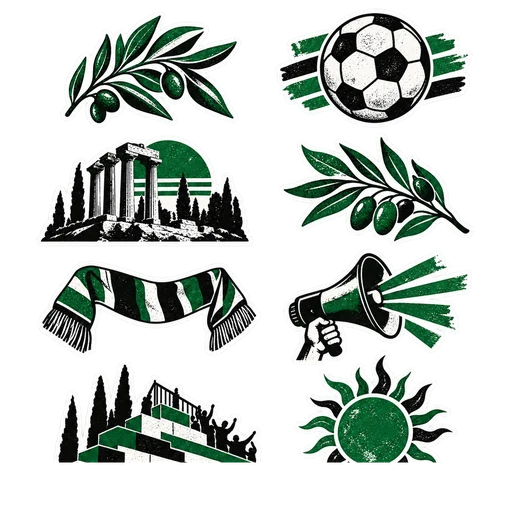
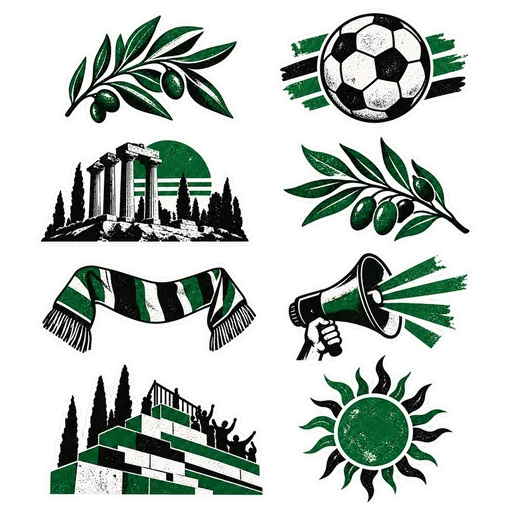
LIFE · TOWN: designer batch P0-02 — enamel shop signs per language, fixed Panathinaikos stickers
- signs/<lang>.webp + rects.js: the designer's enamel plates (he, el, hr, de, en) on the grocery, café, pharmacy and barber fronts, hung out from the facade; the betting-shop plate is left out
- the Panathinaikos sticker sheet re-cut from the complete re-export
- __CK.LANG carries the street's language

Claude-Session: https://claude.ai/code/session_01TpBzbm4JZh7B8pEcedyeRe

Changed region(s): [[0.0938, 0.875, 0.5312, 0.9688], [0.625, 0.875, 0.8438, 0.9688]]

diff --git a/public/life/town/rooms_street.js b/public/life/town/rooms_street.js
@@ -76,6 +76,8 @@ function kit(c){var K={c:c},W=c.world,std=c.std,mesh=c.mesh,rbox=c.rbox,rnd=c.rn
   if(o.pipe)K.box(.14,h,.14,'#4a4a52',o.pipe,h/2,fz+.12,G,{metalness:.5});
   G.userData.fz=fz;G.userData.zf=zf;return G};
  /* shopfront in front of a building face: x centre, width, zf = plane z */
+ /* an enamel shop sign in the street's own language, cut from the designer's sheets (signs/<lang>.webp, rects in signs/rects.js) */
+ var PLT={};K.plate=function(kind,w,x,y,z,par){var L=window.__SIGNS&&(__SIGNS[__CK.LANG]||__SIGNS.en),r=L&&L[kind];if(!r)return null;var key=kind;var m=PLT[key]||(PLT[key]=new T.MeshStandardMaterial({map:K.img('signs/'+(__SIGNS[__CK.LANG]?__CK.LANG:'en')+'.webp',r[2],r[3],{off:[r[0],r[1]]}),transparent:true,alphaTest:.25,roughness:.45,metalness:.25,emissive:'#ffffff',emissiveIntensity:.12,polygonOffset:true,polygonOffsetFactor:-2,polygonOffsetUnits:-2}));var h=w*r[3]/r[2],p=K.plane(w,h,m,x,y,z,par);p.receiveShadow=false;return p};
  K.shop=function(x,w,zf,o){o=o||{};var h=o.h||2.7,G=new T.Group();G.position.set(x,0,zf);W.add(G);
   K.box(w,h+.6,.3,o.frame||'#1a1a22',0,(h+.6)/2,.0,G);
   var gl=new T.MeshStandardMaterial({color:o.glass||'#ffe6cf',emissive:o.glass||'#ffd8b8',emissiveIntensity:o.lit===false?.05:.85,roughness:.1,metalness:.1});
@@ -88,7 +90,8 @@ function kit(c){var K={c:c},W=c.world,std=c.std,mesh=c.mesh,rbox=c.rbox,rnd=c.rn
   else if(o.goods==='produce'){var PC=['#d8501c','#7aa83a','#c42a2a','#e8c8a0','#5a8a3a'];for(var pc=0;pc<4;pc++){var px=gx-gw/2+.45+pc*(gw-.9)/3;K.box(.7,.3,.5,'#8a6a4a',px,.45,.75,G);for(var fq=0;fq<5;fq++)mesh(new T.SphereGeometry(.07,7,6),std(PC[pc%PC.length],{roughness:.6}),px-.24+fq*.12,.65,.75+rr(-.12,.12),G)}o.shelves=true}
   /* shelves silhouette */
   if(o.shelves){for(var s=0;s<3;s++){K.box(gw-.2,.06,.3,'#3a2a2a',gx,.7+s*.7,.3,G);for(var q=0;q<7;q++)K.box(.2,.32,.2,pick(o.shelfCols||[__CK.a,'#f4f1ff','#2a6aff','#ff7a5a','#e0e0ee'],rnd()),gx-gw/2+.4+q*(gw-.8)/6,.9+s*.7,.3,G)}}
-  if(o.sign)K.sign(o.sign,o.signBg||'#14141c',o.signFg||'#ff7a8a',Math.min(w-.2,3.2),.6,0,h+.45,.2,G,{em:'#ffffff',ei:.55});
+  var PR=o.plate&&window.__SIGNS&&(__SIGNS[__CK.LANG]||__SIGNS.en)[o.plate],PW=PR?Math.min(w*.7,1.7,.66*PR[2]/PR[3]):0;
+  if(!(PR&&K.plate(o.plate,PW,0,h+.3+PW*PR[3]/PR[2]/2,.62,G))&&o.sign)K.sign(o.sign,o.signBg||'#14141c',o.signFg||'#ff7a8a',Math.min(w-.2,3.2),.6,0,h+.45,.2,G,{em:'#ffffff',ei:.55});
   if(o.awning){var aw=o.awning,n=8,cv=c.stripes(aw[0],aw[1],n);var am=new T.MeshStandardMaterial({map:cv,roughness:.9,side:T.DoubleSide});var a=new T.Mesh(new T.BoxGeometry(w+.3,.06,1.1),am);a.position.set(0,h-.12,.65);a.rotation.x=.2;a.castShadow=true;G.add(a);K.box(w+.3,.2,.04,aw[0],0,h-.28,1.2,G);}
   if(o.lit!==false)K.glow(0,h/2,.9,o.glowCol||'#ffb48a',w*1.6,h*1.4,.35,G);
   return G};
@@ -288,7 +291,7 @@ RM.def('street',{kind:'street',build:function(c){var K=kit(c),W=c.world,std=c.st
  K.box(.8,1.1,.5,'#3a3e4e',7.3,.55,2.05);for(q=0;q<3;q++)K.box(.72,.28,.04,['#e8e4ee',__CK.a,'#c8d0e0'][q],7.3,.55+q*.3,2.3);
  for(i=0;i<3;i++){K.box(.55,.34,.4,'#8a5a3a',6.8+(i%2)*.1,.17+Math.floor(i/2)*.36,2.35+(i%2)*.0)}K.box(.5,.2,.3,__CK.a,6.8,.7,2.35,null);
  /* ===== grocery x 7.2-8.8 ===== */
- K.shop(8.05,1.45,FZ+.02,{h:2.5,sign:__CK.W.shop,goods:'produce',signBg:'#14202a',signFg:'#8ae0ff',signEm:'#2a8aff',shelves:true,awning:['#2a4a8a','#f4f1ff'],door:false,glowCol:'#cfe0ff',glass:'#e0eaff'});
+ K.shop(8.05,1.45,FZ+.02,{h:2.5,sign:__CK.W.shop,plate:'grocery',goods:'produce',signBg:'#14202a',signFg:'#8ae0ff',signEm:'#2a8aff',shelves:true,awning:['#2a4a8a','#f4f1ff'],door:false,glowCol:'#cfe0ff',glass:'#e0eaff'});
  for(i=0;i<3;i++){K.box(.5,.3,.34,'#7a5a3a',7.6+i*.45,.15,1.9);K.box(.46,.14,.3,['#d8483a','#3a8a4a','#c8c8d8'][i],7.6+i*.45,.38,1.9)}
  /* ===== shutter shop x 10.6..12 ===== */
  K.box(2.4,3.0,.2,'#2a2e3a',11.0,1.5,FZ+.1);K.plane(2.2,2.8,new T.MeshStandardMaterial({map:c.rollerShutter(),roughness:.6,metalness:.3}),11.0,1.45,FZ+.22);
@@ -384,7 +387,7 @@ RM.def('route',{kind:'street',build:function(c){var K=kit(c),W=c.world,std=c.std
  K.bld(10.6,4.2,6.2,FZ,{base:cols[3],cols:2,rows:2,base0:3.2,balc:true,litP:.4,acs:2});
  K.bld(14.6,4.2,5.4,FZ,{base:cols[1],cols:2,rows:2,base0:3.2,litP:.4});K.cityDepth(-4.2,16.7,FZ);
  /* shopfronts */
- K.shop(2.4,2.8,FZ+.02,{h:2.4,sign:__CK.W.cafe,signBg:'#14141c',signFg:'#ff8a9a',signEm:'#ff2a4a',shelves:true,awning:[__CK.a,'#f4f1ff'],door:true});
+ K.shop(2.4,2.8,FZ+.02,{h:2.4,sign:__CK.W.cafe,plate:'cafe',signBg:'#14141c',signFg:'#ff8a9a',signEm:'#ff2a4a',shelves:true,awning:[__CK.a,'#f4f1ff'],door:true});
  K.shop(10.4,2.6,FZ+.02,{h:2.4,sign:__CK.W.sport,signBg:'#0c1224',signFg:'#8ab0ff',signEm:'#2a6aff',awning:['#2a4a8a','#f4f1ff'],shelves:true,glowCol:'#8ab0ff'});
  /* scarf seller stall, x~6.5 */
  var sx=6.5;K.box(2.6,.8,.9,'#2a2e3a',sx,.4,2.1);K.box(2.8,.06,1.0,'#4a4a56',sx,.82,2.1);
@@ -423,7 +426,7 @@ RM.def('bus-stop',{kind:'street',build:function(c){var K=kit(c),W=c.world,std=c.
  for(var i=0;i<6;i++)K.flat(-3+i*3.4,-1.8+i*3.4,8.0,8.14,.012,new T.MeshBasicMaterial({color:'#8a88a0'}));
  /* backdrop: pharmacy corner (left), billboard wall (right) */
  K.bld(-.8,5.2,9.5,FZ,{base:'#6a7686',cols:2,rows:2,base0:3.6,litP:.5,balc:true,acs:2});
- K.shop(1.2,3.2,FZ+.02,{h:2.5,sign:__CK.W.pharmacy,goods:'pharmacy',signBg:'#08241a',signFg:'#7affc0',signEm:'#2aff9a',glass:'#d8fff0',glowCol:'#7affc0',shelves:true,shelfCols:['#f4f1ff','#7affc0','#e0e0ee',__CK.a]});
+ K.shop(1.2,3.2,FZ+.02,{h:2.5,sign:__CK.W.pharmacy,plate:'pharmacy',goods:'pharmacy',signBg:'#08241a',signFg:'#7affc0',signEm:'#2aff9a',glass:'#d8fff0',glowCol:'#7affc0',shelves:true,shelfCols:['#f4f1ff','#7affc0','#e0e0ee',__CK.a]});
  K.bld(3.3,3,8.6,FZ,{base:'#6a7a8c',cols:1,rows:2,base0:3.6,litP:.6});K.bld(7.4,5.4,8.2,FZ,{base:'#7a6a7c',cols:2,rows:2,base0:3.6,litP:.4,shut:true});
  K.bld(12.2,4,9,FZ,{map:c.brick(8,2,3),cols:2,rows:2,base0:3.6,litP:.4});K.cityDepth(-3.4,14.2,FZ);
  K.plane(3.4,1.9,new T.MeshStandardMaterial({map:K.graf(3.4,1.9,{words:[__CK.City,'ULTRAS'],tag:__CK.SHORT}),roughness:.9}),8.2,2.0,FZ+.01);
@@ -556,7 +559,7 @@ RM.def('allenby',{kind:'street',build:function(c){var K=kit(c),W=c.world,std=c.s
  var w2=K.bld(3.4,4.2,8.4,FZ,{base:'#8a8ca8',cols:2,rows:2,base0:3.6,litP:.5,balc:true,shut:true,sill:'#cfcad8'});
  bauhaus(K,c,8.0,4.8,10.5,FZ,{base:'#e0dce8'});
  var w4=K.bld(12.9,5.0,11,FZ,{base:'#9aa0b4',cols:2,rows:3,base0:3.4,litP:.5,acs:2,balc:true});
- K.shop(1.4,3.0,FZ+.02,{h:2.7,sign:__CK.TLV?'Allenby Salon':__CK.W.salon,goods:'barber',signBg:'#14141c',signFg:'#ff9ab0',signEm:'#ff4a8a',glass:'#ffe6f0',glowCol:'#ff9ab0',shelves:true,shelfCols:['#f4f1ff',__CK.a,'#ff9ab0','#cfe0ff'],door:true});
+ K.shop(1.4,3.0,FZ+.02,{h:2.7,sign:__CK.TLV?'Allenby Salon':__CK.W.salon,plate:__CK.TLV?null:'barber',goods:'barber',signBg:'#14141c',signFg:'#ff9ab0',signEm:'#ff4a8a',glass:'#ffe6f0',glowCol:'#ff9ab0',shelves:true,shelfCols:['#f4f1ff',__CK.a,'#ff9ab0','#cfe0ff'],door:true});
  K.shop(4.7,2.6,FZ+.02,{h:2.6,sign:__CK.W.swim,goods:'clothes',signBg:'#08142a',signFg:'#8ae0ff',signEm:'#2a8aff',awning:['#2a4a8a','#f4f1ff'],glass:'#cfe0ff',glowCol:'#8ab0ff',shelves:true,shelfCols:['#ff6a8a','#2a8aff','#f4f1ff','#8ae0ff',__CK.a]});
  /* cafe terrace */
  K.neon(__CK.TLV?'Café Landwer':__CK.W.cafe,'#ff6a5a',2.8,.7,8.0,3.1,FZ+.12,null,{back:'#14141c',font:'bold 100px'});

diff --git a/public/life/town/tex/stickers/rects.js b/public/life/town/tex/stickers/rects.js
@@ -1,2 +1,2 @@
 /* sticker cut rectangles per club sheet, in UV (x, y from the bottom, w, h) — generated from the designer's sheets (batch P0-01) */
-window.__STICKERS={"aek-athens":[[0.0684,0.7168,0.4375,0.2754],[0.5254,0.7383,0.4062,0.2383],[0.5332,0.5156,0.4199,0.2422],[0.0703,0.541,0.4355,0.2012],[0.5449,0.0078,0.4023,0.5391],[0.0625,0.2852,0.4727,0.2539],[0.0898,0.0234,0.4434,0.2793]],"celtic":[[0.1719,0.7207,0.2812,0.2773],[0.5449,0.4668,0.3086,0.5312],[0.1172,0.2637,0.3906,0.4629],[0.5078,0.2461,0.3691,0.2559],[0.1172,0.0195,0.3789,0.25],[0.5137,0.0195,0.3691,0.2402]],"hapoel-petah-tikva":[[0.0879,0.7422,0.4043,0.2559],[0.5312,0.748,0.3906,0.2422],[0.0957,0.5098,0.3848,0.2383],[0.5039,0.5059,0.459,0.2363],[0.5312,0.2363,0.4043,0.2871],[0.1094,0.2344,0.3945,0.2754],[0.0762,0.002,0.4316,0.2539],[0.5508,0.0,0.375,0.2559]],"hapoel-tel-aviv":[[0.1758,0.7305,0.2695,0.2676],[0.5078,0.7324,0.3496,0.2617],[0.5254,0.4727,0.3105,0.2676],[0.1484,0.4902,0.3535,0.248],[0.125,0.0137,0.3906,0.4922],[0.4902,0.2734,0.3965,0.1914],[0.5547,0.0156,0.2695,0.2715]],"olympiacos":[[0.0508,0.2324,0.4258,0.7656],[0.5059,0.7148,0.4863,0.2461],[0.5215,0.4648,0.459,0.248],[0.5293,0.2402,0.4512,0.2383],[0.0508,0.0098,0.4082,0.25],[0.5254,0.0176,0.4375,0.2227]],"panathinaikos":[[0.5312,0.7441,0.4004,0.2461],[0.1094,0.7422,0.3691,0.2441],[0.5371,0.5117,0.3965,0.2363],[0.0645,0.5117,0.4375,0.2305],[0.5469,0.2793,0.3828,0.2422],[0.0664,0.2949,0.4512,0.2031],[0.5664,0.0898,0.334,0.2324],[0.0957,0.0898,0.4238,0.2148]],"st-pauli":[[0.0586,0.7207,0.4336,0.2793],[0.5293,0.7188,0.4062,0.2598],[0.5215,0.4551,0.4277,0.2773],[0.0645,0.4531,0.4277,0.2754],[0.5332,0.2324,0.416,0.2422],[0.0508,0.2383,0.4609,0.2227],[0.541,0.0039,0.416,0.2637],[0.0645,0.0039,0.4434,0.2441]],"zrinjski-mostar":[[0.0977,0.7109,0.416,0.2871],[0.5684,0.7031,0.3066,0.2891],[0.0977,0.4941,0.377,0.2207],[0.4863,0.4902,0.4512,0.2188],[0.5156,0.002,0.3965,0.5117],[0.0957,0.248,0.3906,0.25],[0.1035,0.0039,0.3887,0.25]]};
+window.__STICKERS={"aek-athens":[[0.0684,0.7168,0.4375,0.2754],[0.5254,0.7383,0.4062,0.2383],[0.5332,0.5156,0.4199,0.2422],[0.0703,0.541,0.4355,0.2012],[0.5449,0.0078,0.4023,0.5391],[0.0625,0.2852,0.4727,0.2539],[0.0898,0.0234,0.4434,0.2793]],"celtic":[[0.1719,0.7207,0.2812,0.2773],[0.5449,0.4668,0.3086,0.5312],[0.1172,0.2637,0.3906,0.4629],[0.5078,0.2461,0.3691,0.2559],[0.1172,0.0195,0.3789,0.25],[0.5137,0.0195,0.3691,0.2402]],"hapoel-petah-tikva":[[0.0879,0.7422,0.4043,0.2559],[0.5312,0.748,0.3906,0.2422],[0.0957,0.5098,0.3848,0.2383],[0.5039,0.5059,0.459,0.2363],[0.5312,0.2363,0.4043,0.2871],[0.1094,0.2344,0.3945,0.2754],[0.0762,0.002,0.4316,0.2539],[0.5508,0.0,0.375,0.2559]],"hapoel-tel-aviv":[[0.1758,0.7305,0.2695,0.2676],[0.5078,0.7324,0.3496,0.2617],[0.5254,0.4727,0.3105,0.2676],[0.1484,0.4902,0.3535,0.248],[0.125,0.0137,0.3906,0.4922],[0.4902,0.2734,0.3965,0.1914],[0.5547,0.0156,0.2695,0.2715]],"olympiacos":[[0.0508,0.2324,0.4258,0.7656],[0.5059,0.7148,0.4863,0.2461],[0.5215,0.4648,0.459,0.248],[0.5293,0.2402,0.4512,0.2383],[0.0508,0.0098,0.4082,0.25],[0.5254,0.0176,0.4375,0.2227]],"panathinaikos":[[0.5381,0.751,0.3857,0.2324],[0.1172,0.75,0.3545,0.2285],[0.5449,0.5195,0.3809,0.2217],[0.0713,0.5186,0.4238,0.2168],[0.5547,0.2861,0.3672,0.2285],[0.0742,0.3018,0.4355,0.1885],[0.5742,0.0107,0.3184,0.3047],[0.0889,0.0244,0.4336,0.2725]],"st-pauli":[[0.0586,0.7207,0.4336,0.2793],[0.5293,0.7188,0.4062,0.2598],[0.5215,0.4551,0.4277,0.2773],[0.0645,0.4531,0.4277,0.2754],[0.5332,0.2324,0.416,0.2422],[0.0508,0.2383,0.4609,0.2227],[0.541,0.0039,0.416,0.2637],[0.0645,0.0039,0.4434,0.2441]],"zrinjski-mostar":[[0.0977,0.7109,0.416,0.2871],[0.5684,0.7031,0.3066,0.2891],[0.0977,0.4941,0.377,0.2207],[0.4863,0.4902,0.4512,0.2188],[0.5156,0.002,0.3965,0.5117],[0.0957,0.248,0.3906,0.25],[0.1035,0.0039,0.3887,0.25]]};

diff --git a/public/life/town/tex/signs/rects.js b/public/life/town/tex/signs/rects.js
@@ -1,0 +1,2 @@
+/* enamel shop signs per street language, cut from the designer's sheets (batch P0-02): UV x, y from the bottom, w, h, and the words on the plate */
+window.__SIGNS={"he":{"grocery":[0.0117,0.7168,0.4795,0.1895,"מכולת גל"],"kiosk":[0.5068,0.7168,0.4824,0.1895,"קיוסק ניב"],"cafe":[0.0107,0.499,0.4805,0.1895,"קפה ענן"],"barber":[0.5068,0.499,0.4824,0.1904,"מספרת קו"],"pharmacy":[0.0107,0.292,0.4805,0.1836,"בית מרקחת צל"],"bakery":[0.5078,0.292,0.4814,0.1836,"מאפיית תלם"],"butcher":[0.0107,0.0811,0.4814,0.1836,"קצביית אבן"]},"el":{"grocery":[0.0225,0.752,0.4648,0.2227,"ΠΑΝΤΟΠΩΛΕΙΟ ΔΡΥΣ"],"kiosk":[0.5127,0.752,0.4658,0.2227,"ΠΕΡΙΠΤΕΡΟ ΝΗΜΑ"],"cafe":[0.0234,0.5098,0.4629,0.2207,"ΚΑΦΕ ΑΥΛΗ"],"barber":[0.5146,0.5088,0.4629,0.2207,"ΚΟΥΡΕΙΟ ΤΟΞΟ"],"pharmacy":[0.0234,0.2666,0.4619,0.2197,"ΦΑΡΜΑΚΕΙΟ ΑΚΡΗ"],"bakery":[0.5146,0.2666,0.4619,0.2197,"ΦΟΥΡΝΟΣ ΠΕΤΡΑ"],"butcher":[0.0234,0.0264,0.4629,0.2197,"ΚΡΕΟΠΩΛΕΙΟ ΡΙΖΑ"]},"hr":{"grocery":[0.0293,0.7412,0.4629,0.2207,"TRGOVINA LUK"],"kiosk":[0.5107,0.7402,0.4619,0.2236,"KIOSK OBLAK"],"cafe":[0.0312,0.502,0.46,0.2266,"KAFIĆ VAL"],"barber":[0.5127,0.5029,0.46,0.2275,"FRIZER MOST"],"pharmacy":[0.0303,0.2676,0.4619,0.2266,"LJEKARNA LIST"],"bakery":[0.5117,0.2676,0.46,0.2256,"PEKARNICA ZRNO"],"butcher":[0.0303,0.0293,0.46,0.2275,"MESNICA KAMEN"]},"de":{"grocery":[0.0293,0.7402,0.457,0.21,"MARKT KIESEL"],"kiosk":[0.5127,0.7393,0.46,0.2109,"KIOSK FADEN"],"cafe":[0.0293,0.5039,0.458,0.209,"CAFÉ NEBEL"],"barber":[0.5146,0.5029,0.457,0.209,"FRISEUR KANTE"],"pharmacy":[0.0283,0.2686,0.46,0.21,"APOTHEKE HAIN"],"bakery":[0.5137,0.2686,0.459,0.208,"BÄCKEREI KORN"],"butcher":[0.0283,0.0381,0.458,0.207,"METZGEREI BOJE"]},"en":{"grocery":[0.0361,0.7207,0.4473,0.21,"PEBBLE GROCER"],"kiosk":[0.5156,0.7217,0.4453,0.207,"THREAD NEWS"],"cafe":[0.0352,0.4893,0.4482,0.2197,"MIST CAFÉ"],"barber":[0.5166,0.4854,0.4473,0.208,"EDGE BARBER"],"pharmacy":[0.0361,0.2637,0.4482,0.207,"GROVE PHARMACY"],"bakery":[0.5166,0.2646,0.4453,0.2031,"GRAIN BAKERY"],"butcher":[0.0361,0.0459,0.4492,0.2002,"QUAY BUTCHER"]}};

diff --git a/public/life/town/kit.js b/public/life/town/kit.js
@@ -25,7 +25,7 @@ function clubKit(sk){var S=(sk&&sk.club)||null,p=(sk&&sk.c1)||'#d8283e',short=S&
   SAT:(function(){try{return new Date(2024,0,6).toLocaleString((S&&S.lang)||'en',{weekday:'short'})}catch(e){return 'Sat'}})(),
   MONTH:function(m){try{return new Date(2000,m,1).toLocaleString((S&&S.lang)||'en',{month:'long'}).toUpperCase()}catch(e){return ['JANUARY','FEBRUARY','MARCH','APRIL','MAY','JUNE','JULY','AUGUST','SEPTEMBER','OCTOBER','NOVEMBER','DECEMBER'][m]}},
   /* the club's own founding year (sourced), and whether this street is Tel Aviv's — only then may a sign name Tel Aviv places */
-  YEAR:S&&S.founded?String(S.founded):'',TOWN:(S&&S.town)||null,ID:(sk&&sk.name)||null,TLV:/tel[\s-]?aviv/i.test(city),INIT:S&&S.initials?S.initials:short.slice(0,2),n1:S&&S.nums?S.nums[0]:4,n2:S&&S.nums?S.nums[1]:5,n3:S&&S.nums?S.nums[2]:6}}
+  YEAR:S&&S.founded?String(S.founded):'',TOWN:(S&&S.town)||null,ID:(sk&&sk.name)||null,LANG:(S&&S.lang)||'en',TLV:/tel[\s-]?aviv/i.test(city),INIT:S&&S.initials?S.initials:short.slice(0,2),n1:S&&S.nums?S.nums[0]:4,n2:S&&S.nums?S.nums[1]:5,n3:S&&S.nums?S.nums[2]:6}}
 window.__CK=clubKit(null);
 /* a sign is lettered for whichever club stands under it: a longer name never runs off the board */
 (function(){var P=CanvasRenderingContext2D.prototype,f=P.fillText,sF=P.strokeText;function fit(ctx,t,x,mw){if(mw!=null)return mw;var W=ctx.canvas.width,a=ctx.textAlign,av=a==='center'?2*Math.min(x,W-x):(a==='right'||a==='end')?x:W-x;av=Math.max(8,av*.96);return ctx.measureText(t).width>av?av:undefined}

diff --git a/public/life/town/play.html b/public/life/town/play.html
@@ -12,6 +12,7 @@
 <script src="/life/town/roomgeo.js"></script>
 <script src="/life/town/people.js"></script>
 <script src="/life/town/tex/stickers/rects.js"></script>
+<script src="/life/town/tex/signs/rects.js"></script>
 <script src="/life/town/kit.js"></script>
 <script src="/life/town/rooms_home.js"></script>
 <script src="/life/town/rooms_street.js"></script>
